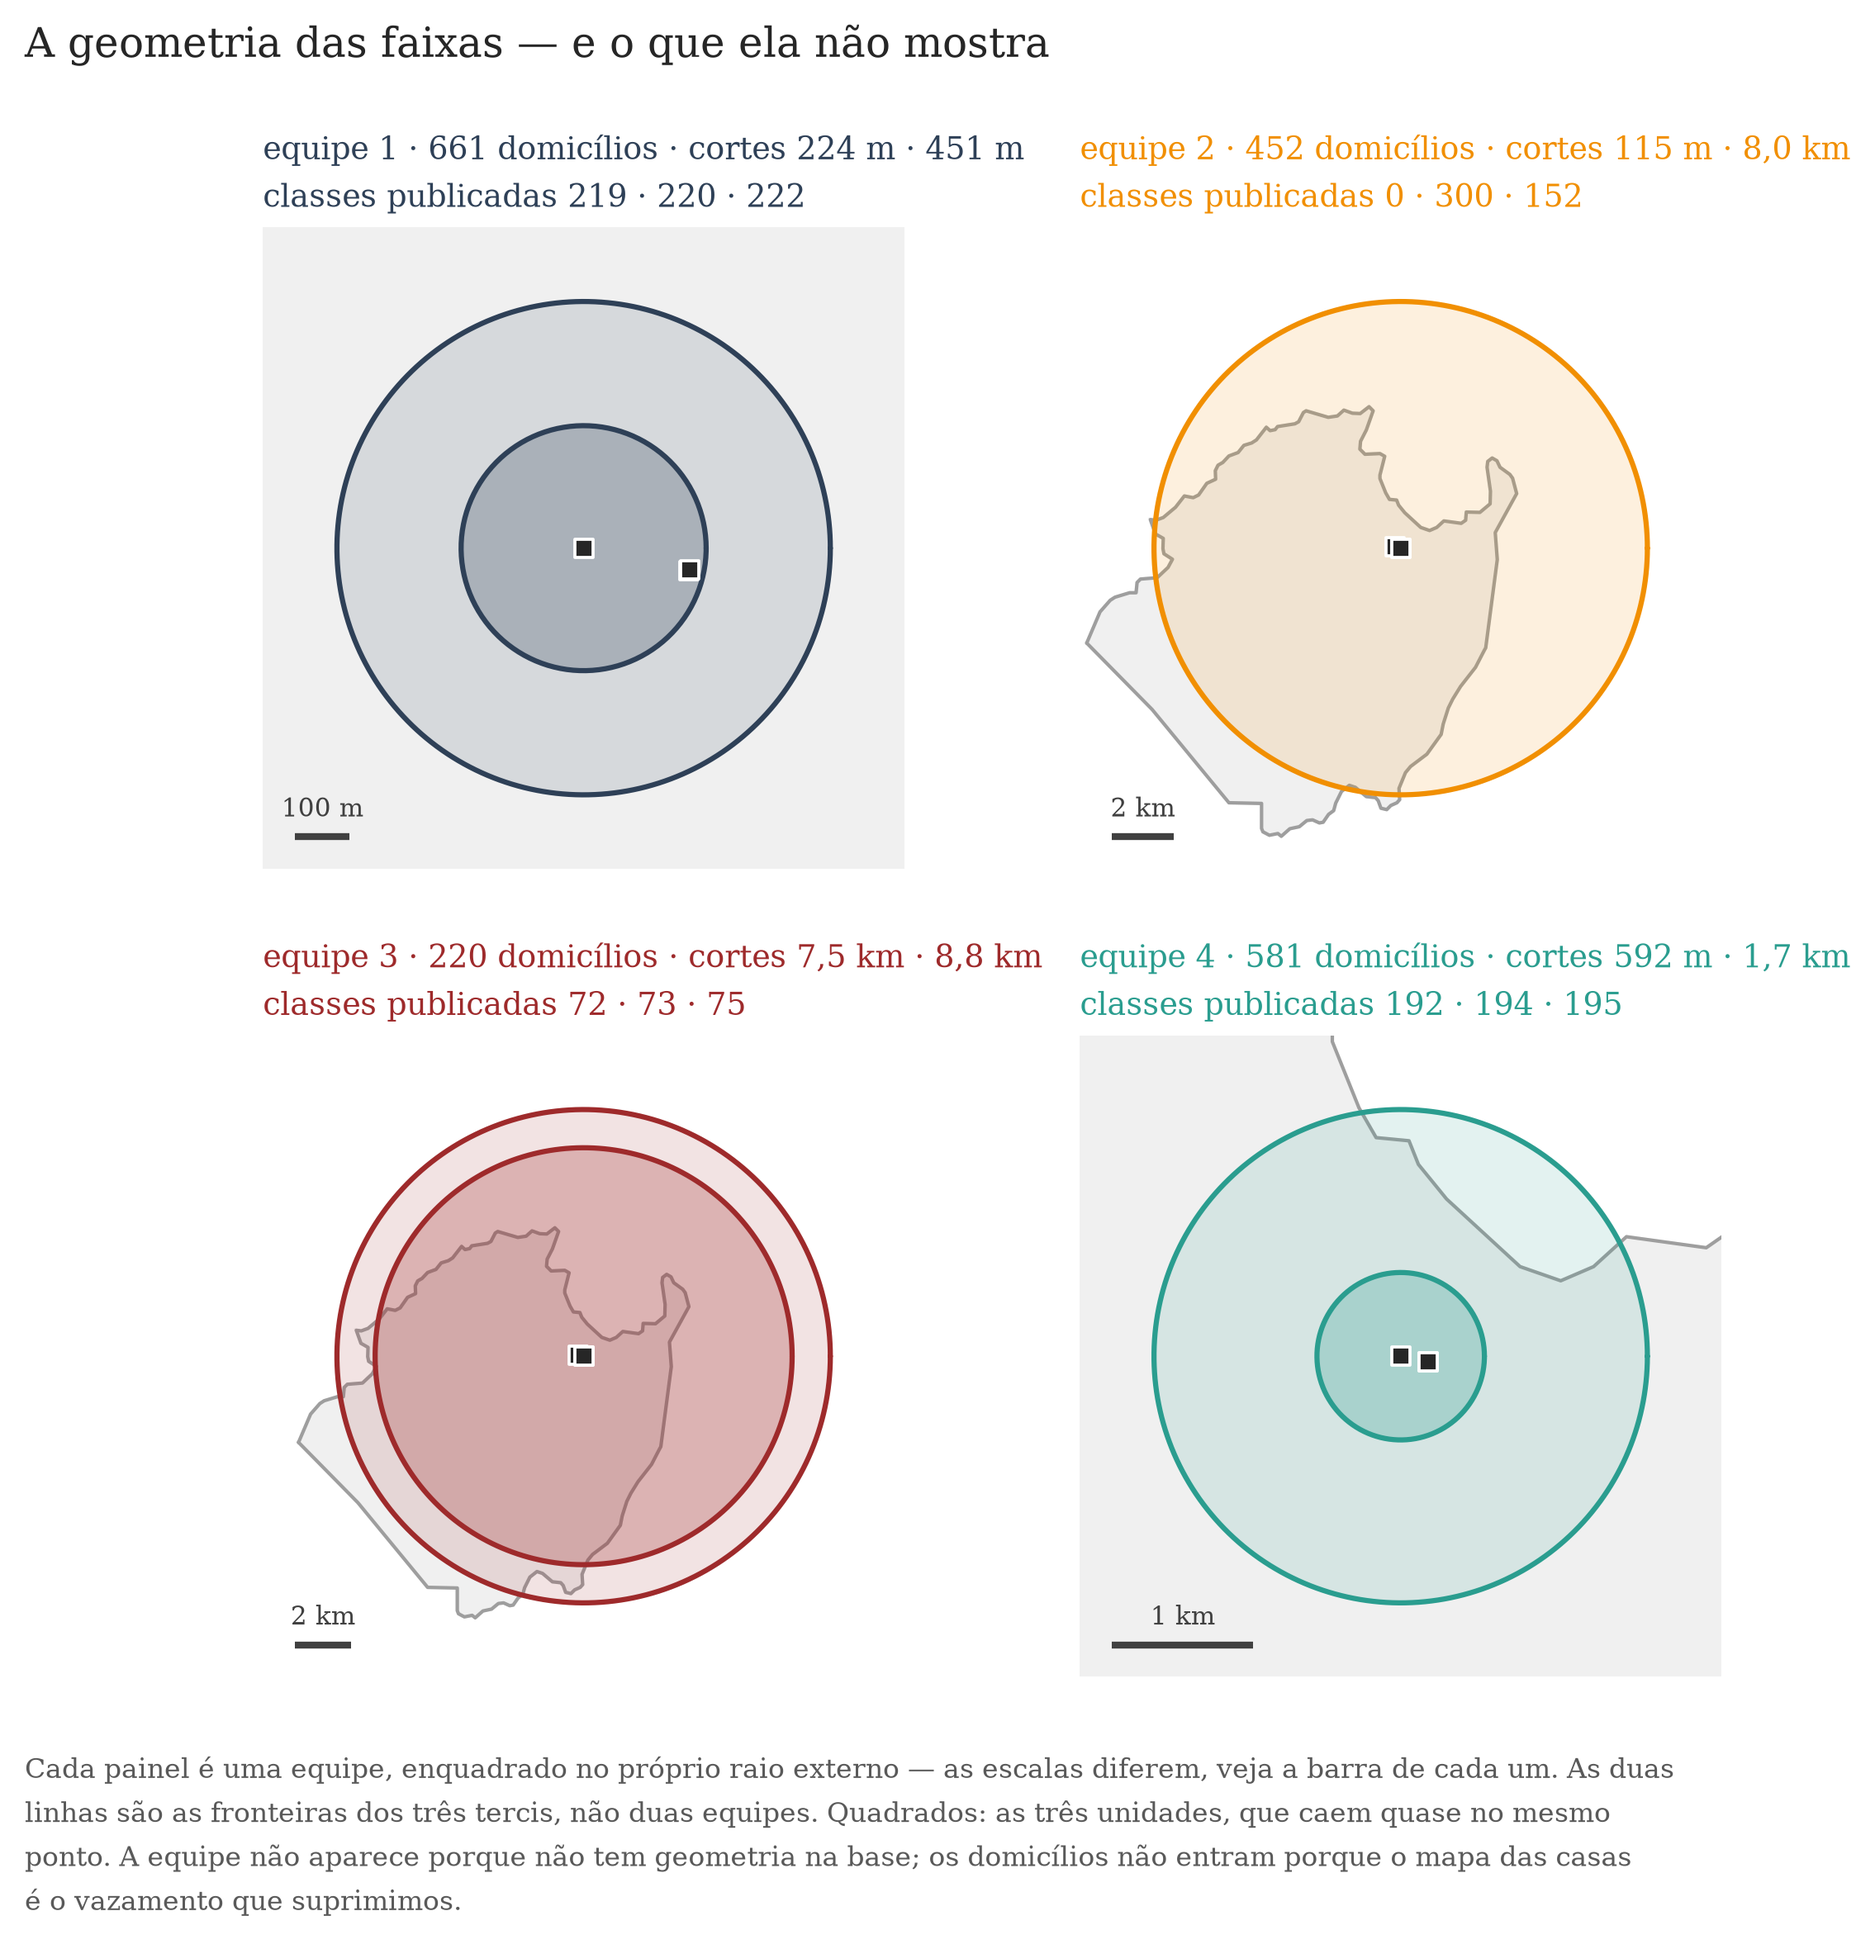
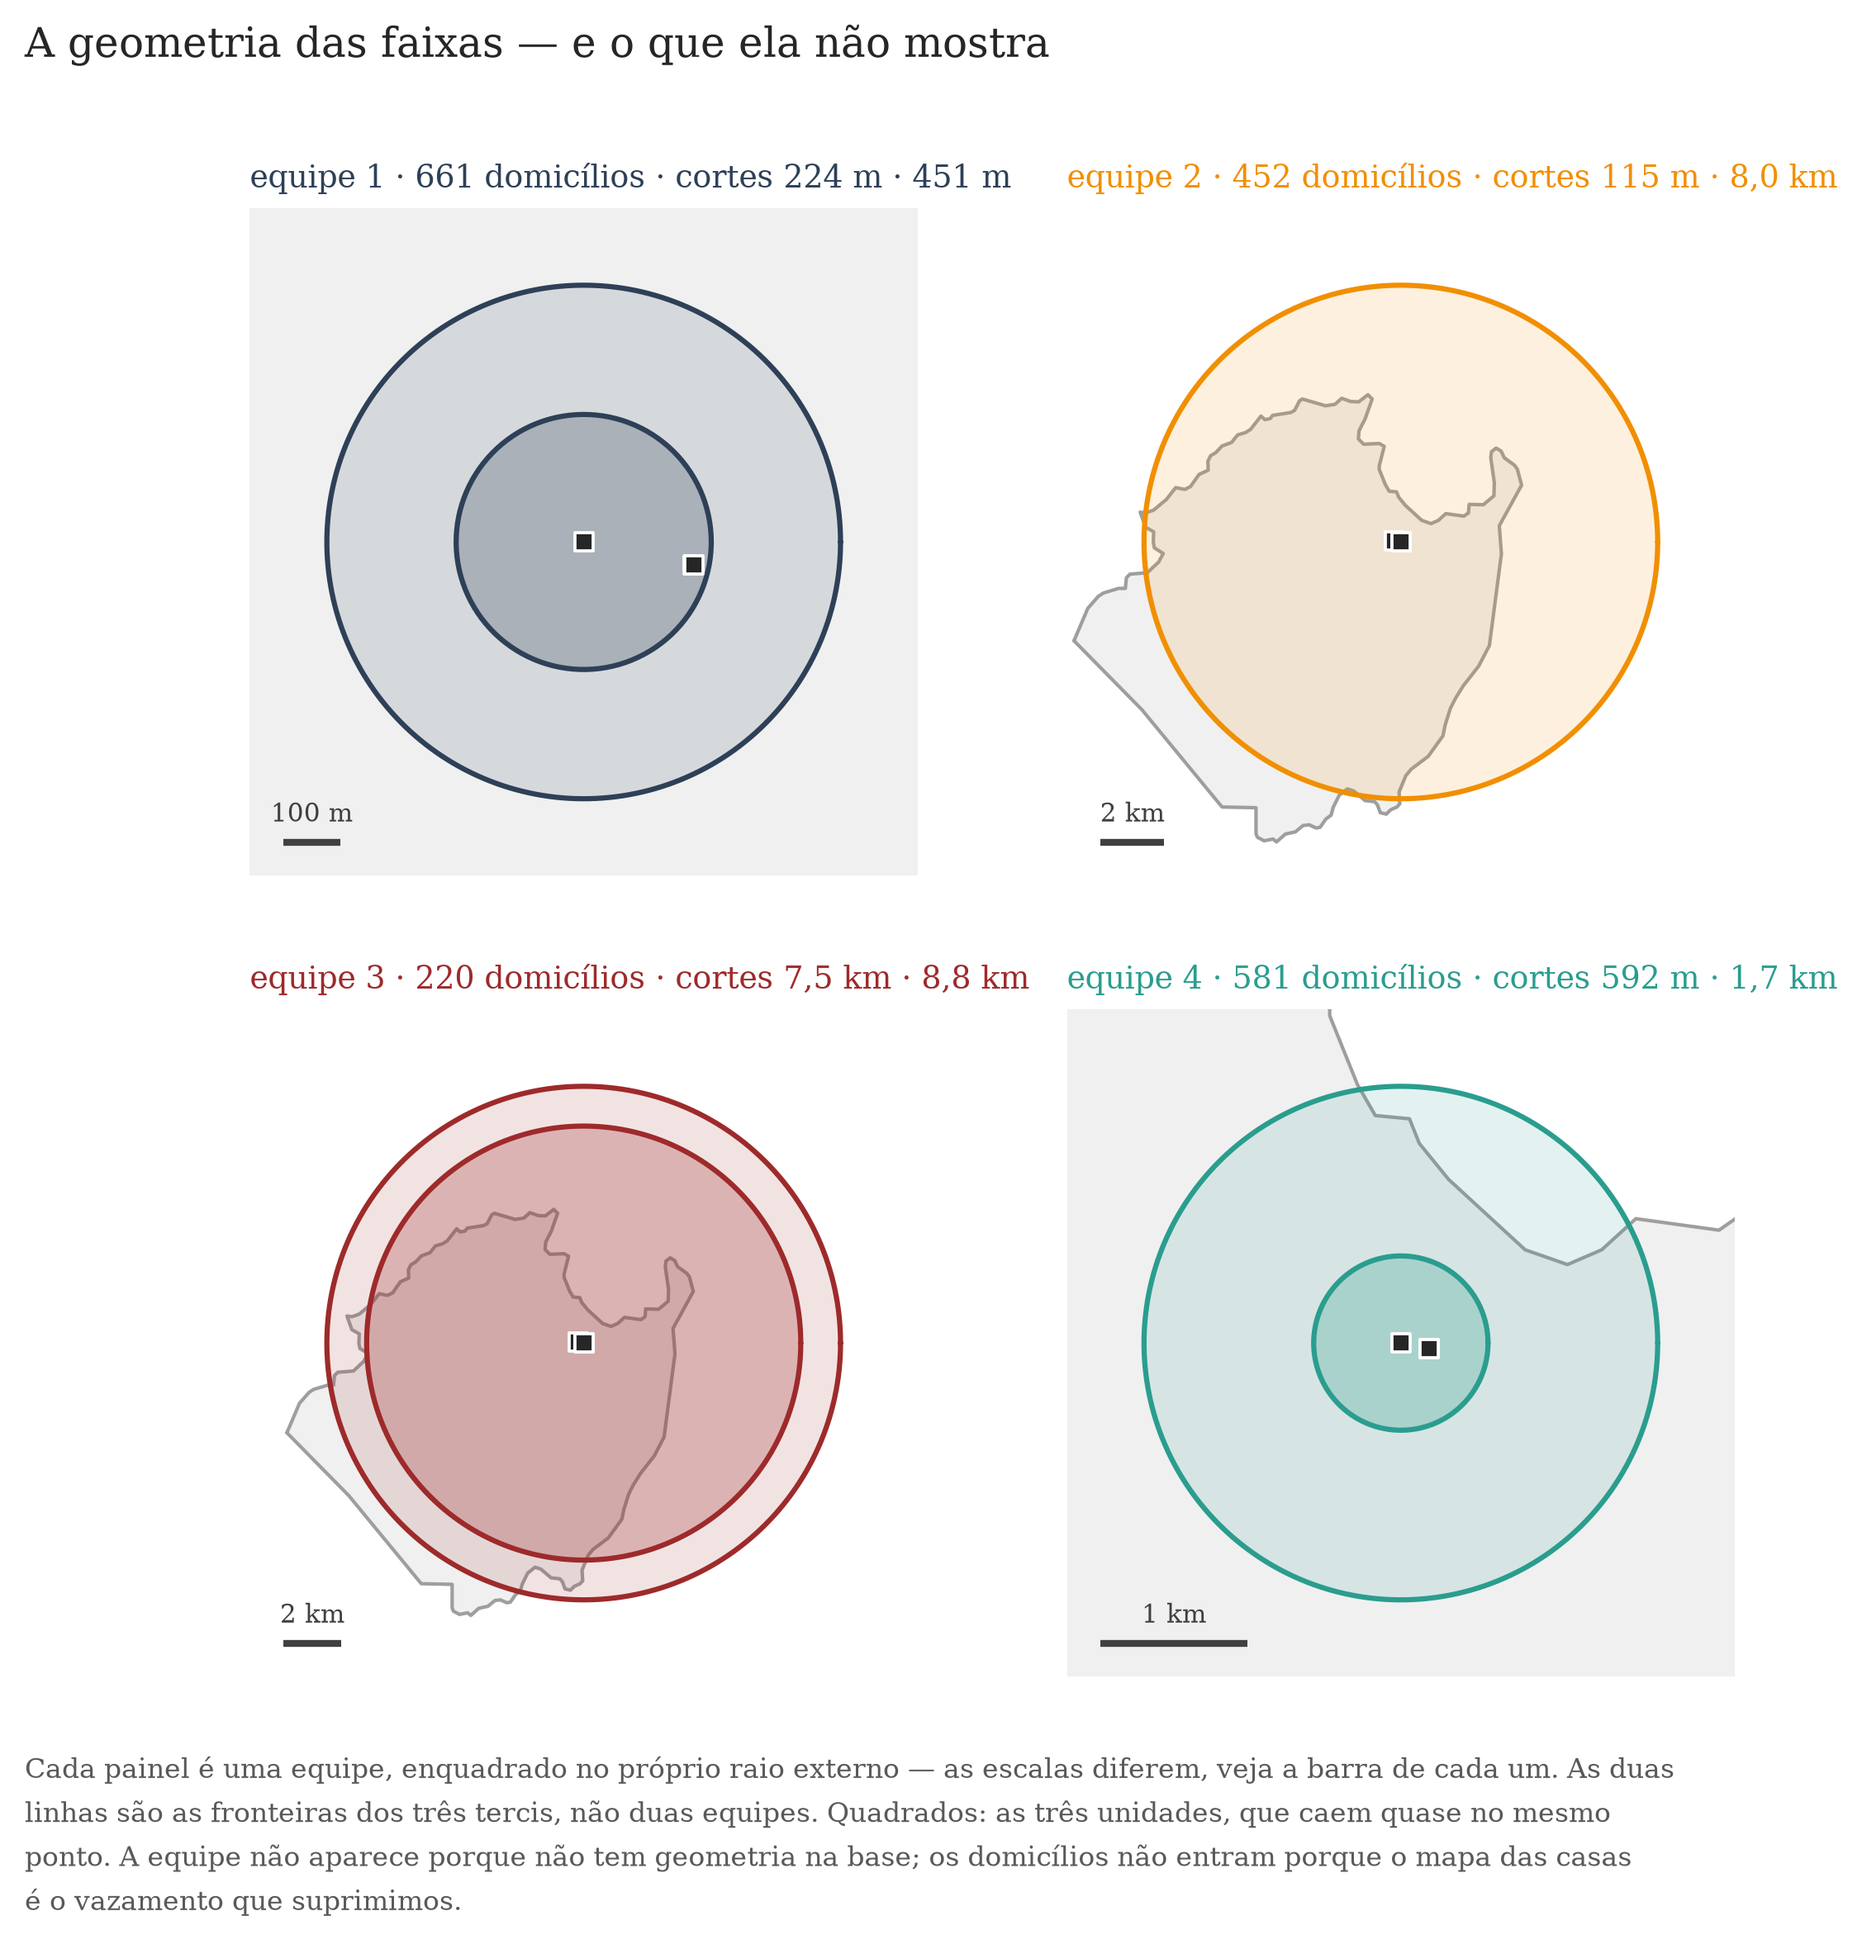
Tira o tamanho das classes do título da figura de faixas
Título volta a uma linha: equipe, domicílios e cortes. Os tamanhos das
classes publicadas continuam no JSON da 06, fora da figura.

diff --git a/experimentos/geografia/04_plots.py b/experimentos/geografia/04_plots.py
@@ -892,17 +892,11 @@ def fig_faixas(dados: dict) -> None:
             (f"{c/1000:.1f} km".replace(".", ",") if c >= 1000 else f"{c:.0f} m")
             for c in cortes
         )
-        # O numero da equipe e o das classes ficam no titulo, nao no mapa: os
-        # rotulos dentro do desenho poluiam mais do que informavam. A distincao
-        # entre os dois continua explicita, porque e dela que sai o k - a menor
-        # equipe tem 220 domicilios e a menor classe publicada, 72.
-        classes = f.get("classes_n") or []
-        linha2 = (" · ".join(str(c) for c in classes)) if classes else "—"
-        ax.set_title(
-            f"{rot} · {f['n']} domicílios · cortes {cortes_txt}\n"
-            f"classes publicadas {linha2}",
-            loc="left", fontsize=9, color=cor, linespacing=1.55,
-        )
+        # "domicílios" por extenso em vez de "n=", que se lia como o tamanho da
+        # faixa. Os tamanhos das classes publicadas continuam no JSON da 06,
+        # fora da figura.
+        ax.set_title(f"{rot} · {f['n']} domicílios · cortes {cortes_txt}",
+                     loc="left", fontsize=9, color=cor)
         for l in ("top", "right", "bottom", "left"):
             ax.spines[l].set_visible(False)
         ax.set_xticks([]); ax.set_yticks([])
@@ -920,7 +914,7 @@ def fig_faixas(dados: dict) -> None:
         "porque o mapa das casas\né o vazamento que suprimimos.",
         ha="left", va="bottom", fontsize=8, color="0.35", linespacing=1.6,
     )
-    fig.subplots_adjust(top=0.89, bottom=0.14, hspace=0.26, wspace=0.20)
+    fig.subplots_adjust(top=0.90, bottom=0.14, hspace=0.20, wspace=0.20)
     salvar(fig, "faixas")
 
 
